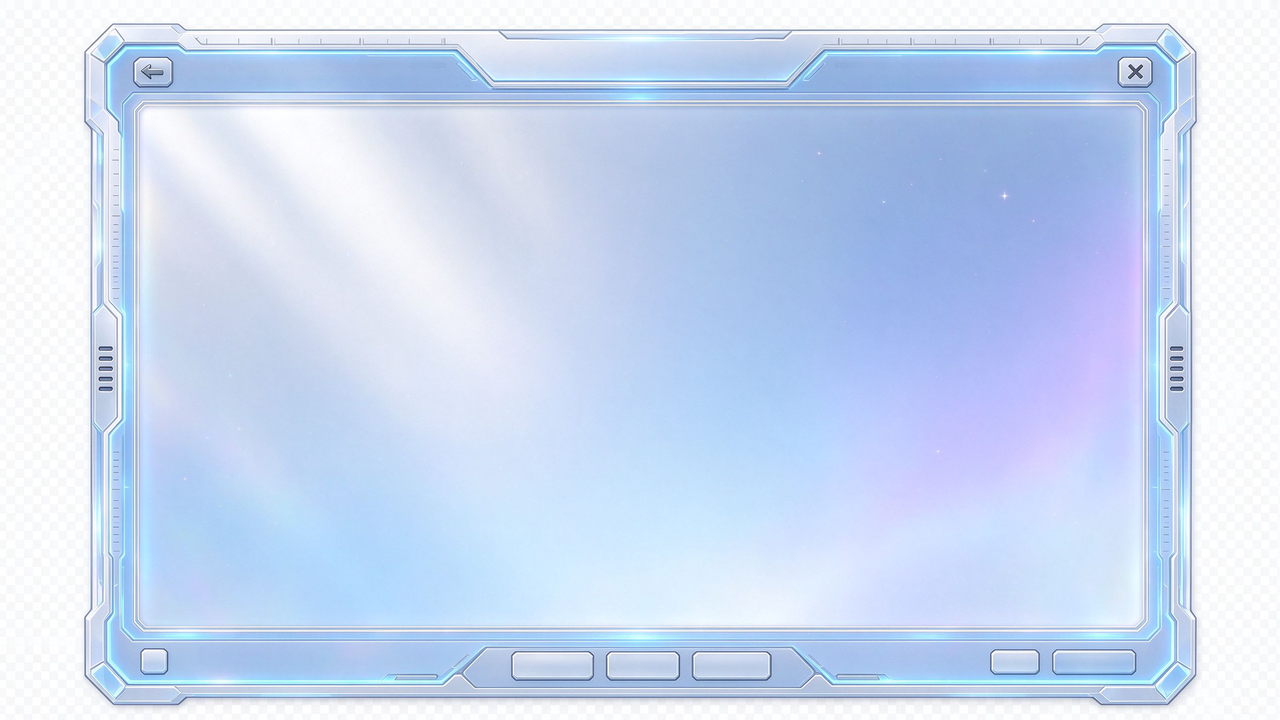
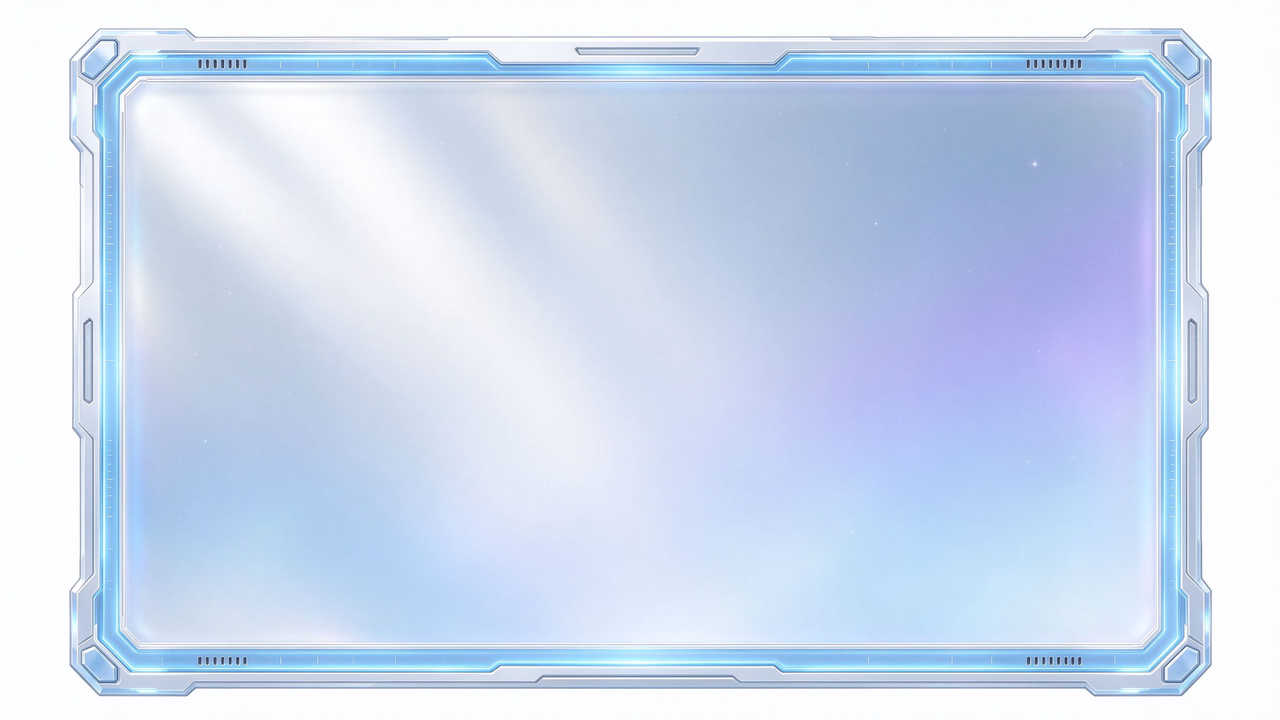
v0.18.1-alpha: 替换干净外框图-去除装饰按钮和水印

Changed region(s): [[0.0312, 0.0306, 0.9688, 1.0], [0.4062, 0.2444, 0.625, 0.7028], [0.1562, 0.6111, 0.2188, 0.6722]]

diff --git a/README.md b/README.md
@@ -52,7 +52,7 @@
 
 ## 当前版本
 
-**v0.18.0-alpha**（Alpha内测阶段）
+**v0.18.1-alpha**（Alpha内测阶段）
 
 ### 已实现系统
 
@@ -90,6 +90,7 @@
 
 | 版本 | 主要更新 |
 |---|---|
+| **v0.18.1** | 替换干净外框图：去除AI生成的装饰按钮和水印，纯外框纯背景
 | **v0.18.0** | UI外框升级：AI生成银白全息机械外框精灵图，替换代码生成纹理，包含多层边框+切角+散热槽+刻度线
 | **v0.17.2** | 外框预渲染：机械斜切角+三层边框+刻度线全部烘焙进背景纹理，每帧仅1次DrawTexture
 | **v0.17.1** | UI视觉升级：预渲染512x512银白全息背景纹理（多层渐变+边缘发光+星空粒子+扫描线），每帧仅1次DrawTexture
